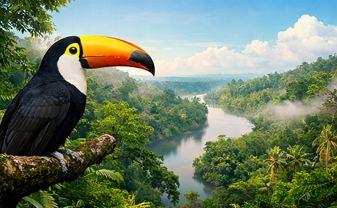
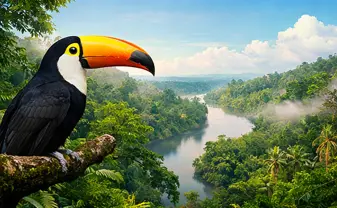
feat: adicionar variáveis de cor e ícones SVG para melhorar a responsividade e a estética da página

diff --git a/estilos/styles.css b/estilos/styles.css
@@ -3,6 +3,7 @@
     --secondary-color: #ffdf00;
     --text-color: #222;
     --bg-color: #f5f5f5;
+    --white: #ffffff;
 }
 
 body {
@@ -14,7 +15,7 @@ body {
 
 header {
     background-color: var(--primary-color);
-    color: white;
+    color: var(--white);
     text-align: center;
     padding: 1rem;
 }
@@ -28,7 +29,7 @@ header {
 section {
     margin: 1rem;
     padding: 1rem;
-    background-color: white;
+    background-color: var(--white);
     border-radius: 8px;
     box-shadow: 0 0 5px rgba(0, 0, 0, 0.1);
 }
@@ -41,16 +42,24 @@ h2 {
 
 footer {
     background-color: var(--primary-color);
-    color: white;
+    color: var(--white);
     text-align: center;
     padding: 1rem;
     font-size: 0.9rem;
 }
 
-/* Ícone de clima via pseudoelemento */
+/* Ícone de clima via pseudoelemento (desktop) */
 .icon::after {
     content: "☀️";
     margin-left: 0.5rem;
+}
+
+/* Exibe o SVG no mobile e oculta o emoji */
+.weather-icon {
+    width: 50px;
+    height: auto;
+    display: block;
+    margin: 0.5rem auto;
 }
 
 /* Responsividade */
@@ -66,6 +75,7 @@ footer {
         width: 45%;
     }
 
+    /* No desktop, mostra o emoji e oculta o SVG */
     .weather-icon {
         display: none;
     }

diff --git a/local.html b/local.html
@@ -4,10 +4,12 @@
 <head>
     <meta charset="UTF-8">
     <meta name="viewport" content="width=device-width, initial-scale=1.0">
-    <meta name="description" content="Página sobre o Brasil com dados e clima.">
+    <meta name="description"
+        content="Página sobre o Brasil com informações detalhadas sobre dados geográficos, população, idioma, moeda e clima, incluindo cálculo de sensação térmica.">
+    <meta name="author" content="Fabio Ricardo">
     <title>Brasil</title>
     <link rel="stylesheet" href="estilos/styles.css">
-    <script defer src="scripts.js"></script>
+    <script defer src="scripts/scripts.js"></script>
 </head>
 
 <body>
@@ -37,6 +39,7 @@
 
         <section class="weather">
             <h2>Clima <span class="icon"></span></h2>
+            <!-- Ícone SVG para mobile -->
             <img src="imagens/weather.svg" alt="Ícone de clima ensolarado" class="weather-icon">
             <ul>
                 <li><strong>Temperatura:</strong> <span id="temp">28</span>°C</li>